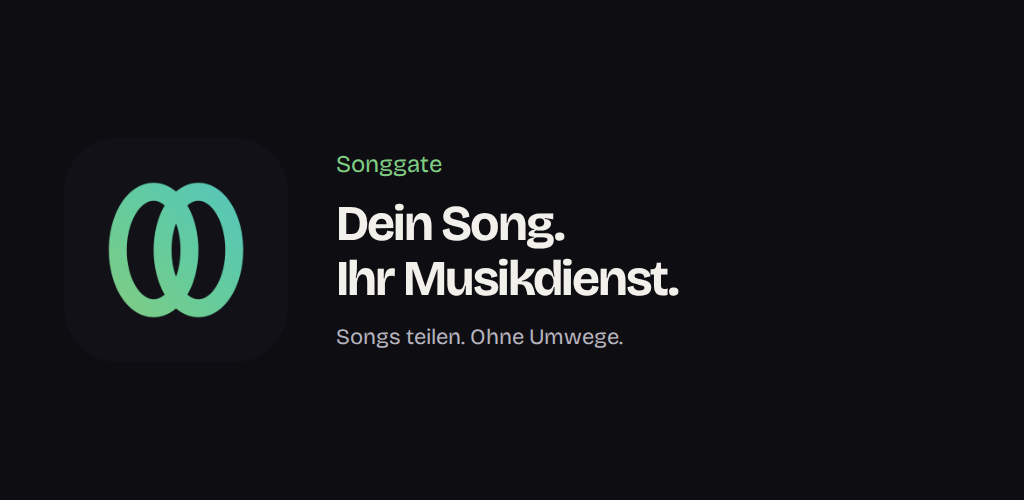
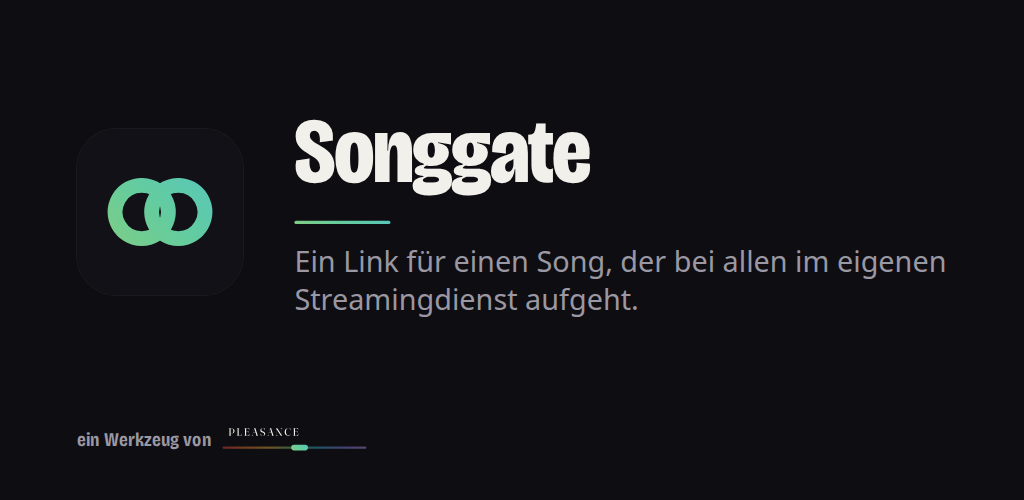
Render current Play screenshots and feature graphics, refresh Play texts
The Play phone pictures dated from before the redesign and the English UI.
The App Store picture tooling now also renders four 1:2 Android screens per
language, and og-image.ts renders the feature graphic from the link preview
layout. Texts mention albums, the four services at once and both languages.

diff --git a/apps/mobile/tool/store_screenshots/store_screenshots_test.dart b/apps/mobile/tool/store_screenshots/store_screenshots_test.dart
@@ -1,4 +1,4 @@
-// Renders the app screens for the App Store pictures with made-up data:
+// Renders the app screens for the App Store and Google Play pictures with made-up data:
 //
 //   flutter test --dart-define=API_URL=https://songgate.app tool/store_screenshots/store_screenshots_test.dart
 //
@@ -20,9 +20,11 @@ import 'package:musiclink/app.dart';
 import 'package:musiclink/core/api.dart';
 
 const devices = {
-  // Logical size, pixel ratio and safe area of an iPhone 16 Pro Max and a 13" iPad
+  // Logical size, pixel ratio and safe area of an iPhone 16 Pro Max, a 13" iPad
+  // and an Android phone at 1:2, the longest side Google Play takes
   'iphone': (size: Size(440, 956), ratio: 3.0, top: 62.0, bottom: 34.0),
   'ipad': (size: Size(1032, 1376), ratio: 2.0, top: 24.0, bottom: 20.0),
+  'android': (size: Size(440, 880), ratio: 3.0, top: 40.0, bottom: 24.0),
 };
 
 late HttpServer covers;
@@ -84,6 +86,8 @@ Future<void> loadFont(String family, List<String> files) async {
 void main() {
   TestWidgetsFlutterBinding.ensureInitialized();
   const preferences = MethodChannel('org.musiclink.prototype/preferences');
+  // Android asks it for a link shared into the app, there is none
+  const share = MethodChannel('org.musiclink.prototype/share');
   final shot = GlobalKey();
 
   setUpAll(() async {
@@ -125,7 +129,9 @@ void main() {
   for (final locale in ['de', 'en']) {
     for (final device in devices.entries) {
       testWidgets('$locale ${device.key}', (tester) async {
-        debugDefaultTargetPlatformOverride = TargetPlatform.iOS;
+        debugDefaultTargetPlatformOverride = device.key == 'android'
+            ? TargetPlatform.android
+            : TargetPlatform.iOS;
         tester.platformDispatcher.localesTestValue = [Locale(locale)];
         final spec = device.value;
         tester.view.physicalSize = spec.size * spec.ratio;
@@ -143,6 +149,8 @@ void main() {
                 _ => null,
               };
             });
+        TestDefaultBinaryMessengerBinding.instance.defaultBinaryMessenger
+            .setMockMethodCallHandler(share, (call) async => null);
         var album = false;
         await tester.pumpWidget(
           RepaintBoundary(

diff --git a/apps/web/og-image.ts b/apps/web/og-image.ts
@@ -1,13 +1,16 @@
 // Renders the link preview that WhatsApp, Signal and co. show for shared links,
 // 1200×630 per language into static/og-image-<locale>.png (starter DESIGN.md,
-// "Vorschaubild"). Rerun after changing APP_NAME, APP_BAND, the tagline or the
-// tile in static/favicon.svg, and commit the pictures.
+// "Vorschaubild"), and the same at 1024×500 as the Google Play feature graphic in
+// docs/store/play/<locale>/feature-graphic.png. Rerun after changing APP_NAME,
+// APP_BAND, the tagline or the tile in static/favicon.svg, and commit the pictures.
 // Run: bun run og-image
 import { readFileSync } from 'node:fs';
 import { APP_BAND, APP_NAME, bandGradient, GLOW, type Locale, messages } from '@app/shared';
 import { chromium } from '@playwright/test';
 
 const STATIC = new URL('static/', import.meta.url);
+const PLAY = new URL('../../docs/store/play/', import.meta.url);
+const PLAY_LOCALES: Record<Locale, string> = { de: 'de-DE', en: 'en-US' };
 const dataUrl = (file: string, type: string) =>
   `data:${type};base64,${readFileSync(new URL(file, STATIC)).toString('base64')}`;
 
@@ -23,8 +26,8 @@ const html = (locale: Locale) => `<!doctype html>
     display: flex;
     flex-direction: column;
     box-sizing: border-box;
-    width: 1200px;
-    height: 630px;
+    width: 100vw;
+    height: 100vh;
     margin: 0;
     padding: 0 96px 64px;
     background: #0e0d12;
@@ -65,6 +68,15 @@ try {
     const file = `og-image-${locale}.png`;
     await page.screenshot({ path: new URL(file, STATIC).pathname });
     console.log(file);
+  }
+  // Google Play: 1024×500, the layout at 1280×625 scaled by 0.8
+  const play = await browser.newPage({ viewport: { width: 1280, height: 625 }, deviceScaleFactor: 0.8 });
+  for (const locale of Object.keys(messages) as Locale[]) {
+    await play.setContent(html(locale));
+    await play.evaluate(() => document.fonts.ready);
+    const file = new URL(`${PLAY_LOCALES[locale]}/feature-graphic.png`, PLAY);
+    await play.screenshot({ path: file.pathname });
+    console.log(file.pathname);
   }
 } finally {
   await browser.close();

diff --git a/apps/mobile/tool/store_screenshots/compose.py b/apps/mobile/tool/store_screenshots/compose.py
@@ -1,5 +1,6 @@
 # Puts the screens from store_screenshots_test.dart into a device frame under a
-# caption, at the App Store sizes for 6.9" iPhones and 13" iPads:
+# caption, at the App Store sizes for 6.9" iPhones and 13" iPads and at 1:2 for
+# Google Play phones (no share slide there, the picture is the iOS share sheet):
 #
 #   python3 tool/store_screenshots/compose.py
 #
@@ -26,6 +27,7 @@ DEVICES = {
     # canvas, screen width, top of the frame, frame width, corner radius, safe area of the raw screen in px
     'iphone': dict(canvas=(1320, 2868), screen=1100, top=720, frame=30, radius=150, status=186),
     'ipad': dict(canvas=(2064, 2752), screen=1628, top=720, frame=34, radius=70, status=48),
+    'android': dict(canvas=(1320, 2640), screen=1100, top=720, frame=30, radius=110, status=120),
 }
 
 SLIDES = ['share', 'song', 'group', 'album', 'friends']
@@ -118,7 +120,7 @@ def compose(locale, device, slide, n):
         raw = Image.open(RAW / f'{locale}-{device}-{slide}.png').convert('RGBA')
         boxes = RAW / f'{locale}-{device}-{slide}.json'
         paint_emoji(raw, json.loads(boxes.read_text()) if boxes.exists() else [])
-        status_bar(raw, spec['status'], raw.width / (440 if device == 'iphone' else 1032))
+        status_bar(raw, spec['status'], raw.width / (1032 if device == 'ipad' else 440))
         screen = raw.resize((screen_w, round(raw.height * screen_w / raw.width)), Image.LANCZOS)
     left = (w - screen_w) // 2
     top = spec['top']
@@ -134,6 +136,7 @@ def compose(locale, device, slide, n):
 
 for locale in CAPTIONS:
     for device in DEVICES:
-        for n, slide in enumerate(SLIDES, 1):
+        slides = [s for s in SLIDES if s != 'share'] if device == 'android' else SLIDES
+        for n, slide in enumerate(slides, 1):
             compose(locale, device, slide, n)
 print('written to', RAW / 'out')

diff --git a/AGENTS.md b/AGENTS.md
@@ -30,7 +30,7 @@ The browser tests start the API and the production build of the web on their own
 - Pushes that touch `apps/mobile` also run `mobile.yml`, which uploads an iOS build to TestFlight and builds upload-key-signed Android AAB and APK artifacts (kept for 90 days). Android release CI requires the `ANDROID_KEYSTORE_*`, `ANDROID_KEY_ALIAS` and `ANDROID_KEY_PASSWORD` secrets. Robin confirmed `org.pleasance.songgate` on 22 October 2026. After he uploads the first AAB manually and grants the service account access, set `PLAY_SERVICE_ACCOUNT_JSON` and `PLAY_UPLOAD=true` to upload subsequent builds to Play internal testing. Never enable this before package-name confirmation; no production promotion runs automatically. Job `testflight` (`apps/mobile/tool/testflight.mjs`) gives every build to the internal group „MusicLink Internal“ and only turns green once the build is `IN_BETA_TESTING` and visible in that group; an invalid build, missing export compliance or an hour without visibility fail it.
 - External testers (group „MusicLink V1“) don't get every build: TestFlight mails a group's testers for each build it is given. Only the build of a pushed release tag `v*` goes there and is submitted for the beta review, and only after Robin's yes. `gh workflow run mobile.yml` stays internal, even on a tag. A beta review state other than submitted, in review or approved fails the job. When a push changes something app users notice (new feature, important fix), the agent's conclusion asks whether the build goes to the external testers too (skill `push-deploy`). `git tag v<version> && git push origin v<version>` builds iOS and Android again and releases that build. An already uploaded build: `node tool/testflight.mjs [--quiet] <build number> "MusicLink Internal" "MusicLink V1"` in `apps/mobile` with `ASC_*` from `~/.secrets`; at least one internal group is required, external groups follow only once the build is visible internally.
 - Update requirement: app builds send `X-App-Platform` and `X-App-Build` (the CI run number, `BUILD_NUMBER`). Below `MIN_BUILD_IOS`/`MIN_BUILD_ANDROID` (Coolify, empty = no minimum) the API answers 426 except for feedback; the app then shows only the update screen with the store link, the share extension the message. Raise a minimum only once a newer build is live in that store. Web and builds older than the update screen send nothing and are never blocked.
-- App Store pictures: in `apps/mobile`, `flutter test --dart-define=API_URL=https://songgate.app tool/store_screenshots/store_screenshots_test.dart && python3 tool/store_screenshots/compose.py` renders the app with made-up data and frames it under the captions in `compose.py` (DE/EN, 6.9" iPhone and 13" iPad) into `build/store_screenshots/out`. Picture 1, the iOS share sheet, is a fixed image (`share-*.png`). Renew them when the app visibly changes; App Store Connect only takes new pictures on a version that is not in review.
+- App Store pictures: in `apps/mobile`, `flutter test --dart-define=API_URL=https://songgate.app tool/store_screenshots/store_screenshots_test.dart && python3 tool/store_screenshots/compose.py` renders the app with made-up data and frames it under the captions in `compose.py` (DE/EN, 6.9" iPhone and 13" iPad) into `build/store_screenshots/out`, plus four `android-*.png` at 1320×2640 for Google Play, copied to `docs/store/play/<locale>/phone/`. Picture 1, the iOS share sheet, is a fixed image (`share-*.png`) and has no Android version. Renew them when the app visibly changes; App Store Connect only takes new pictures on a version that is not in review.
 - Verify: `gh run watch`. The deploy job only turns green once `https://songgate.app/api/health` reports the commit as `revision`.
 - Pushes to any branch and PRs from forks also run `secrets.yml`, the secret scan (see „Secret scan“).
 
@@ -50,7 +50,7 @@ The browser tests start the API and the production build of the web on their own
 - `spotify.link` short links are Branch links: the API reads the `spotify.app.link` page and takes the first `open.spotify.com/track/…` or `/album/…` URL in it. If Branch changes that page, short links fail with `INVALID_LINK` while full links keep working.
 - Friends and groups live only on the device: web in localStorage, app as one JSON string via the preferences channel (`getSocial`/`setSocial`), on iOS in the app group so the share extension reads the same list. The invite page opens the app with `musiclink://app/friend?name=…&service=…`, a plain URL scheme that needs no new signing profile. The API caches `/api/v1/song` results in memory for 24 hours; the privacy page says so.
 - Web, app and the iOS share extension show all four services at once (`GET /api/v1/song`), `/convert` with one target is left for the CLI. The message comes from `friendsMessage` in `packages/shared` (no service: only the share link, one: its link, several: one line each, then always „Geteilt mit songgate.app“ as advertising for recipients); `social.dart` and the share extension's `ShareModel.swift` mirror it. Service logos are Simple Icons (CC0): `apps/web/src/lib/logos.ts`, `apps/mobile/assets/logos/` and, as converted paths, `ServiceLogo` in `ShareView.swift` (the extension has no asset catalogue).
-- Link previews: the layout sets the `og:` tags, public pages override title, description and an absolute image (song covers) with `meta` from their load (`/s/…` server load, `/f/[service]` `+page.ts`). Crawlers run no JavaScript, so `meta` only works on SSR pages. One picture per language, `static/og-image-{de,en}.png`: rerun `bun run og-image` in `apps/web` and commit them when `APP_NAME`, `APP_BAND`, `tagline` in `messages.ts` or the tile `static/favicon.svg` (same as `img/werkzeuge/musiclink.svg` in the pleasance repo) change. WhatsApp caches previews for a long time.
+- Link previews: the layout sets the `og:` tags, public pages override title, description and an absolute image (song covers) with `meta` from their load (`/s/…` server load, `/f/[service]` `+page.ts`). Crawlers run no JavaScript, so `meta` only works on SSR pages. One picture per language, `static/og-image-{de,en}.png`: rerun `bun run og-image` in `apps/web` (also renders the Play feature graphics in `docs/store/play/<locale>/`) and commit them when `APP_NAME`, `APP_BAND`, `tagline` in `messages.ts` or the tile `static/favicon.svg` (same as `img/werkzeuge/musiclink.svg` in the pleasance repo) change. WhatsApp caches previews for a long time.
 - Postgres holds feedback only. New table: change `packages/db/src/schema.ts`, `bun run --filter @app/db db:generate`; the migration runs on the next API start.
 
 ## Conventions
